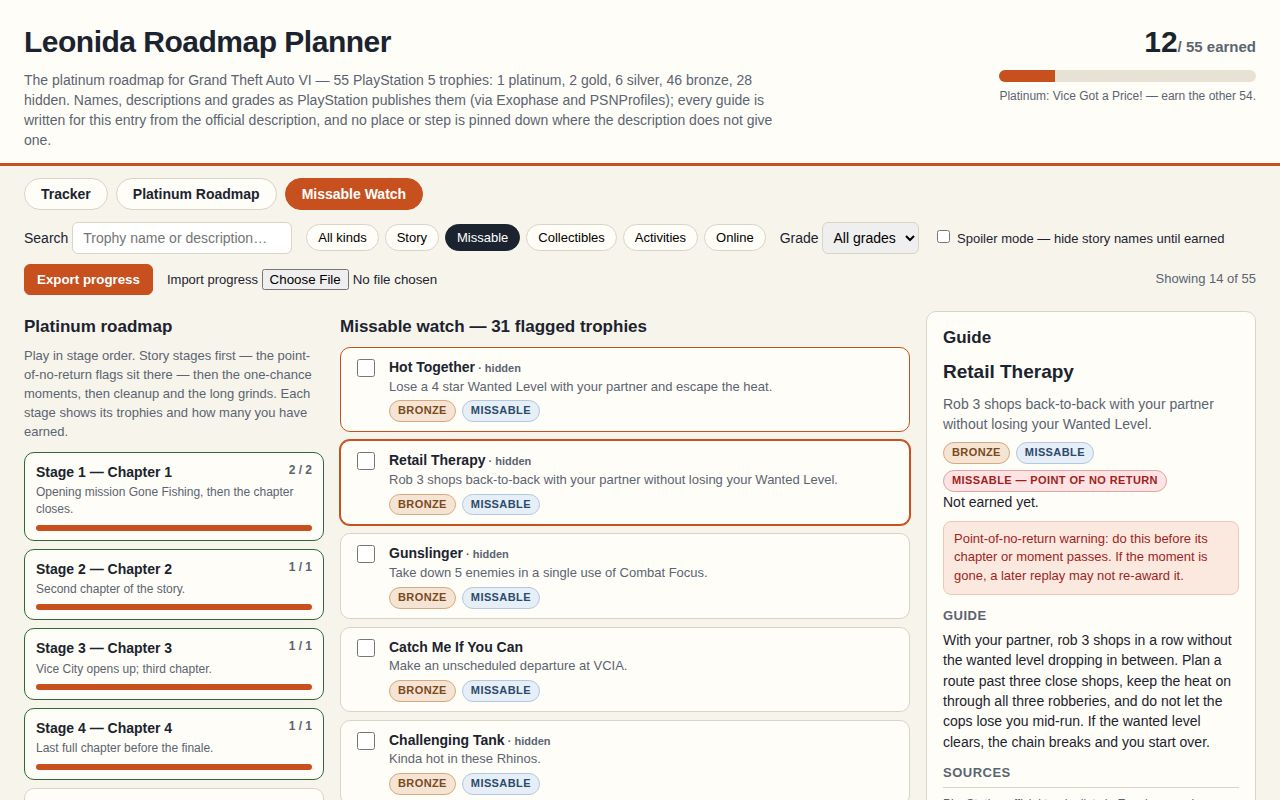
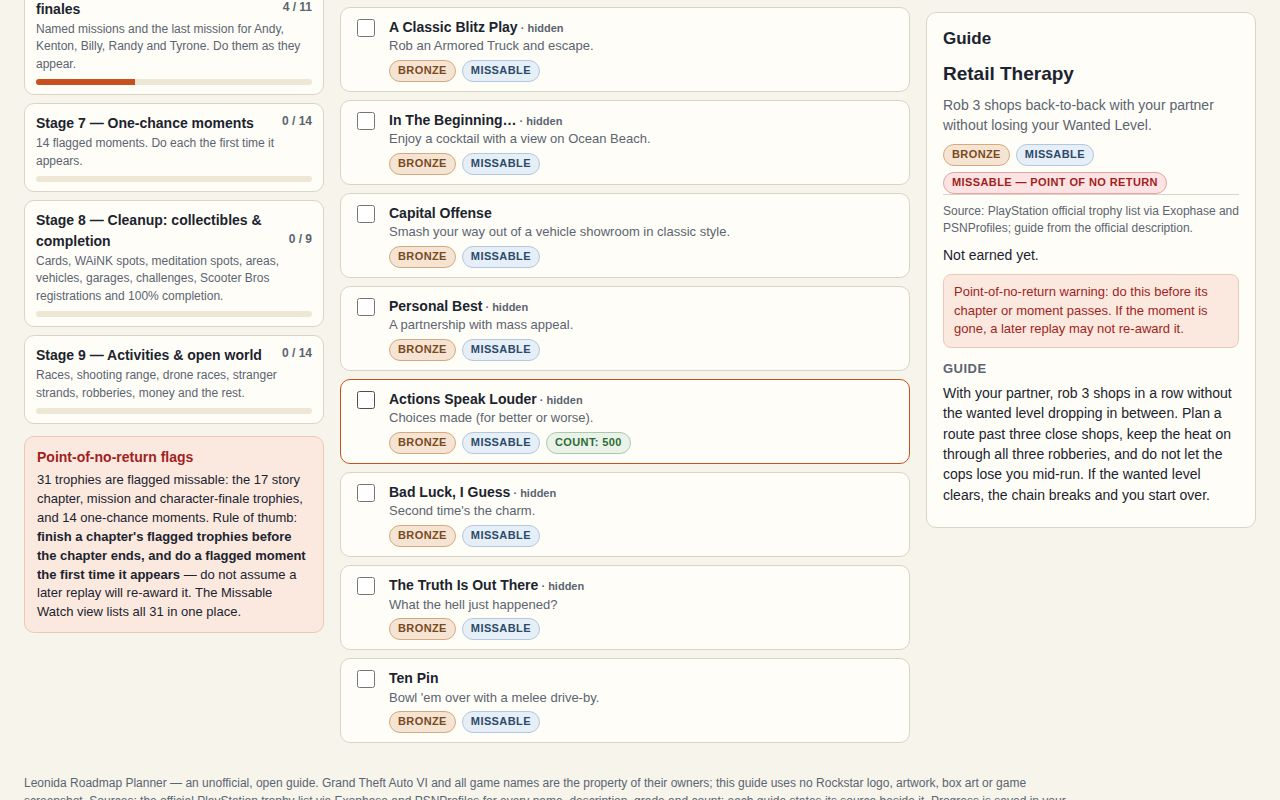
Move per-guide source citation above the fold in the detail panel
renderDetail() previously put the Sources block at the very end of the
guide panel, below the fold at 1280x800, so no screenshot showed a
per-guide citation. The source line now renders directly under the
trophy description and badges (Source: <t.source>, reusing the existing
.source class), before the Guide heading and guide text, so the
citation is visible in the tracker and missable screenshots. Retook
all 4 screenshots at 1280x800.

Changed region(s): [[0.0, 0.0, 1.0, 1.0]]

diff --git a/app/app.js b/app/app.js
@@ -242,6 +242,9 @@ function renderDetail() {
     c.textContent = "PSN tracks: " + t.count.toLocaleString("en-US");
     meta.append(c);
   }
+  const source = document.createElement("p");
+  source.className = "source";
+  source.textContent = "Source: " + t.source;
   const earned = document.createElement("p");
   earned.className = state.earned.has(t.id) ? "earned-line" : "";
   earned.textContent = state.earned.has(t.id) ? "Earned — ticked off in your tracker." : "Not earned yet.";
@@ -253,16 +256,10 @@ function renderDetail() {
     const warn = document.createElement("p");
     warn.className = "warn";
     warn.textContent = "Point-of-no-return warning: do this before its chapter or moment passes. If the moment is gone, a later replay may not re-award it.";
-    body.append(name, desc, meta, earned, warn, guideH, guide);
+    body.append(name, desc, meta, source, earned, warn, guideH, guide);
   } else {
-    body.append(name, desc, meta, earned, guideH, guide);
+    body.append(name, desc, meta, source, earned, guideH, guide);
   }
-  const sourceH = document.createElement("h3");
-  sourceH.textContent = "Sources";
-  const source = document.createElement("p");
-  source.className = "source";
-  source.textContent = t.source;
-  body.append(sourceH, source);
 }
 
 function syncControls() {
